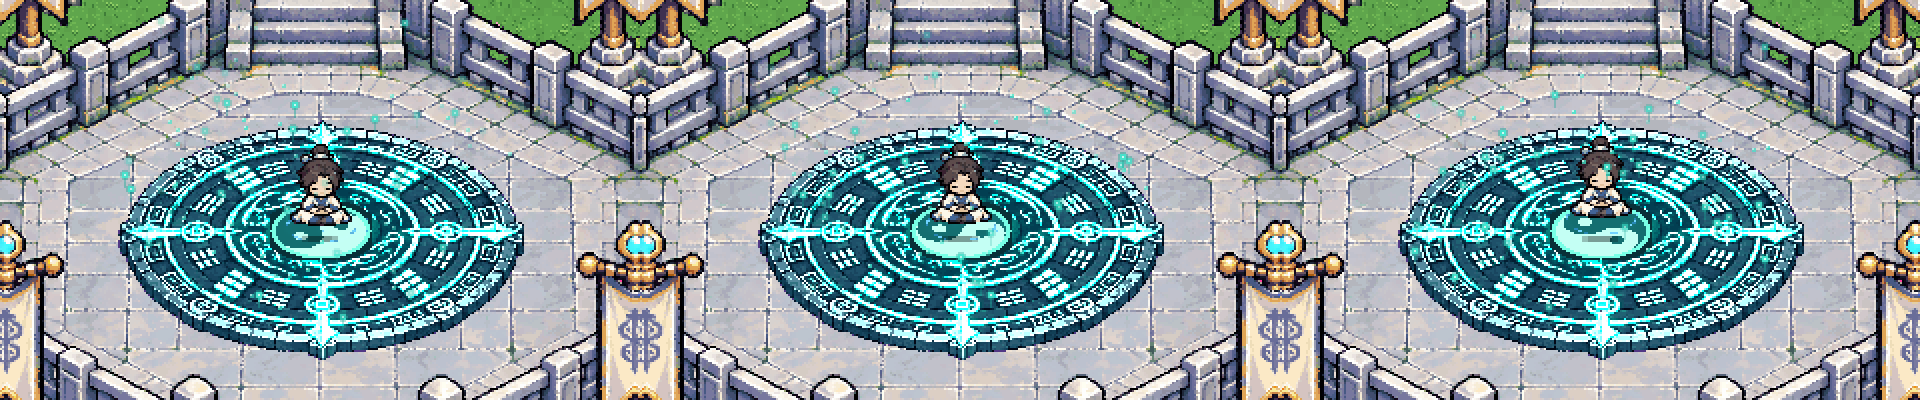
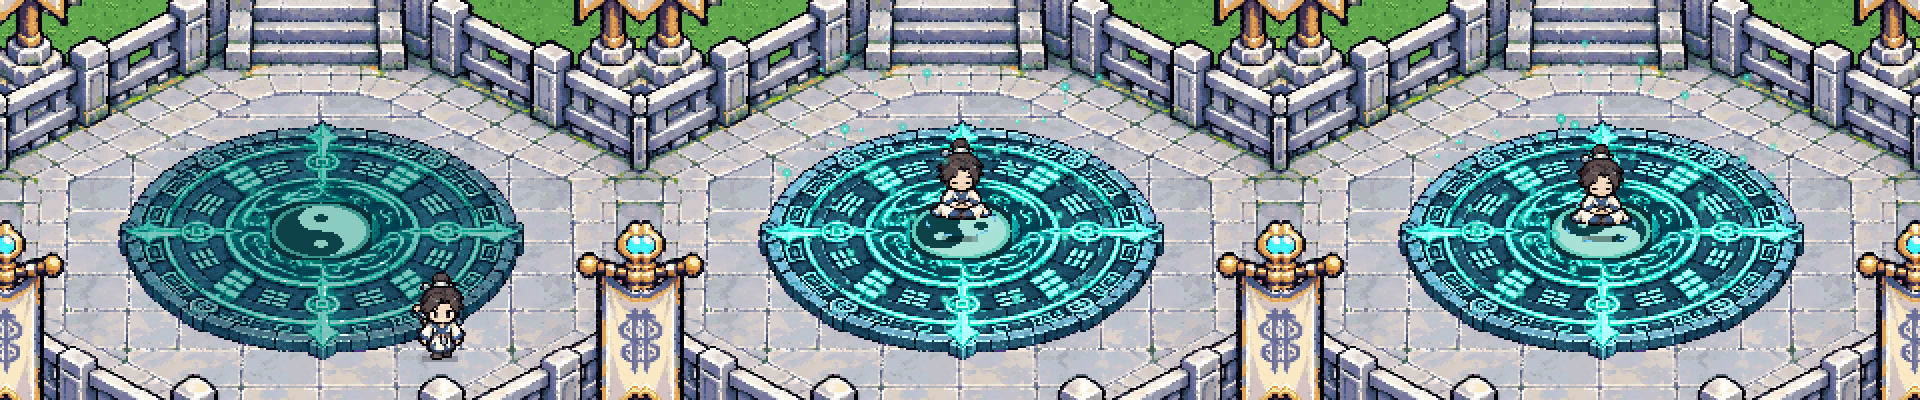
M8: am duong chi xoay khi thien (muot hon), mau tu linh tran diu lai

diff --git a/src/render/render.js b/src/render/render.js
@@ -430,15 +430,15 @@ function drawSectBuilding(ctx, b) {
 
 // M8: âm dương giữa tụ linh trận sảnh tông môn — vẽ từng điểm ảnh (giữ chất pixel), elip theo góc nhìn 3/4 (khớp hình trận tm_tran:
 // tâm cách đỉnh hình trận cy px, bán trục rx×ry), quay theo chiều kim đồng hồ ~1 vòng/14 s; 72 khung xoay dựng sẵn khi cần
-const TAIJI = { rx: 25, ry: 14, cy: 55, period: 14, steps: 72 };
+const TAIJI = { rx: 25, ry: 14, cy: 55, period: 14, steps: 240 };
 const _taiji = new Map();
-function taijiFrame(time, lit) {
-  const k = Math.floor((time / TAIJI.period % 1) * TAIJI.steps), key = k + (lit ? 'L' : '');
+function taijiFrame(turn, lit) {   // turn: 0..1 vòng
+  const k = Math.floor(turn * TAIJI.steps) % TAIJI.steps, key = k + (lit ? 'L' : '');
   let c = _taiji.get(key); if (c) return c;
   const { rx, ry } = TAIJI, W = rx * 2 + 1, H = ry * 2 + 1;
   c = document.createElement('canvas'); c.width = W; c.height = H; const g = c.getContext('2d'), id = g.createImageData(W, H), d = id.data;
   const a = k / TAIJI.steps * Math.PI * 2, ca = Math.cos(a), sa = Math.sin(a);
-  const LIGHT = lit ? [196, 255, 244] : [158, 236, 220], DARK = lit ? [10, 72, 80] : [12, 74, 80], RIM = lit ? [120, 255, 230] : [60, 170, 160], BACK = [8, 48, 56];
+  const LIGHT = lit ? [168, 226, 214] : [140, 204, 192], DARK = [12, 66, 72], RIM = lit ? [96, 206, 188] : [56, 150, 142], BACK = [8, 48, 56];
   for (let j = 0; j < H; j++) for (let i = 0; i < W; i++) {
     const u0 = (i - rx) / rx, v0 = (j - ry) / ry, r2 = u0 * u0 + v0 * v0;
     let col = null;
@@ -809,8 +809,11 @@ export function render(ctx, g) {
       const on = p.med && g.inForm;
       ctx.drawImage(t, x, y);
       if (on && TR.tranGlow) { ctx.globalCompositeOperation = 'lighter'; ctx.drawImage(TR.tranGlow, x, y); ctx.globalCompositeOperation = 'source-over'; }
-      const tj = taijiFrame(time, on);   // âm dương giữa trận xoay chậm theo chiều kim đồng hồ, liên tục
-      ctx.drawImage(tj, Math.round(map.cx - tj.width / 2), y + TAIJI.cy - (tj.height >> 1));
+      // âm dương: chỉ xoay khi đang tọa thiền trong trận (chậm, theo chiều kim đồng hồ); không thiền -> đứng yên.
+      // Góc giữ lại giữa các lần thiền; vào/ra thiền tăng/giảm tốc dần
+      vis.taijiW = (vis.taijiW || 0) + ((on ? 1 : 0) - (vis.taijiW || 0)) * Math.min(1, (g.dtWorld || 0) * 2);
+      vis.taijiA = ((vis.taijiA || 0) + vis.taijiW * (g.dtWorld || 0) / TAIJI.period) % 1;
+      const tj = taijiFrame(vis.taijiA, on); ctx.drawImage(tj, Math.round(map.cx - tj.width / 2), y + TAIJI.cy - (tj.height >> 1));   // không thiền: đứng yên ở góc đang có (không nhảy hình)
     } else if (TR && TR.tran) {   // tụ linh trận (ChatGPT vẽ): thiền trong trận thì sáng rực, bình thường nhịp sáng nhẹ
       const t = TR.tran, s = TR.tran_sang, on = p.med && g.inForm;
       ctx.drawImage(t, Math.round(map.cx - t.width / 2), Math.round(map.cy - t.height / 2));

diff --git a/src/main.js b/src/main.js
@@ -96,9 +96,13 @@ if (vis.bia) vis.ct = { ...(vis.ct || {}), ...cropFrames(vis.bia) };   // M7-14:
 if (vis.tmCt || vis.tmDv || vis.tmCd) vis.tm = Object.assign({}, ...[vis.tmCt, vis.tmDv, vis.tmCd, vis.tmTran].filter(Boolean).map(cropFrames));
 // tụ linh trận sáng: lấy từ CHÍNH hình trận nghỉ (chỉ các đường khắc xanh ngọc) -> sáng lên đúng chỗ, không lệch như ô "sáng" ChatGPT vẽ riêng
 if (vis.tm && vis.tm.tran) {
-  const t = vis.tm.tran, c = document.createElement('canvas'); c.width = t.width; c.height = t.height; const g = c.getContext('2d'); g.drawImage(t, 0, 0);
+  const t = vis.tm.tran, tg = t.getContext('2d'), td = tg.getImageData(0, 0, t.width, t.height);
+  // dịu màu (người phát triển: hơi chói): đường khắc xanh ngọc tối & bớt rực ~25%
+  for (let i = 0; i < td.data.length; i += 4) { const d = td.data, cyan = d[i + 1] > 140 && d[i + 2] > 120 && d[i] < d[i + 1] - 20; if (cyan) { d[i] *= 0.7; d[i + 1] *= 0.78; d[i + 2] *= 0.78; } }
+  tg.putImageData(td, 0, 0);
+  const c = document.createElement('canvas'); c.width = t.width; c.height = t.height; const g = c.getContext('2d'); g.drawImage(t, 0, 0);
   const id = g.getImageData(0, 0, c.width, c.height), d = id.data;
-  for (let i = 0; i < d.length; i += 4) { const cyan = d[i + 1] > 140 && d[i + 2] > 120 && d[i] < d[i + 1] - 20; d[i + 3] = cyan ? 200 : 0; }
+  for (let i = 0; i < d.length; i += 4) { const cyan = d[i + 1] > 105 && d[i + 2] > 95 && d[i] < d[i + 1] - 20; d[i + 3] = cyan ? 110 : 0; }
   g.putImageData(id, 0, 0); vis.tm.tranGlow = c;
 }
 // M8: bệ Tụ Linh Pháp Đài (sprite ×PLAZA.scale): ảnh nền vẽ dưới nhân vật + lớp "phía trước" (lan can, vách, cờ, đèn).

diff --git a/TASKS_TU_TIEN_LO.md b/TASKS_TU_TIEN_LO.md
@@ -387,6 +387,7 @@ Thiết kế + backlog đầy đủ (ChatGPT, 13/11): **`docs/chatgpt_tong_mon_M
   - [x] (14/11) Tụ linh trận mới theo concept ảnh 1 (ChatGPT vẽ, chat "Vẽ concept art tông môn": `docs/concept/tong_mon_tu_linh_tran_chatgpt.png`, 2 ô nghỉ/kích hoạt) → `sprites/tm_tran.*` (`sprite_clean --scale 3.4`, 250×161, xoá viền magenta); sảnh tông môn dùng thay trận cũ (động phủ cũ giữ trận cũ). Bán kính ngồi thiền `HUB.FORM_R` 34 px chưa đổi. Ảnh `docs/playtest/M8_tran_nghi.png`, `M8_tran_thien.png`
   - [x] (14/11) Tụ linh trận nhỏ lại (`--scale 3.9`, mặt trận 203×120), đứng yên (bỏ nhịp sáng/ô sáng vẽ riêng bị lệch); tọa thiền trong trận thì đường khắc xanh sáng lên (lớp sáng tách từ chính hình trận); vùng ngồi thiền ở sảnh = elip mặt trận `HUB.SECT_FORM` {rx 92, ry 50} (động phủ cũ vẫn FORM_R 34); 204/204; ảnh `docs/playtest/M8_tran_v2.png`
   - [x] (14/11) VFX tụ linh trận (ý tưởng người phát triển): âm dương giữa trận vẽ từng điểm ảnh, xoay chậm theo chiều kim đồng hồ (~14 s/vòng, `TAIJI` + `taijiFrame` trong render.js); nhấn T trong trận -> vào giữa trận, bay lơ lửng (nâng ~9 px, lên xuống ±2,5 px, bóng giữ ở đất, hào quang dịu đi); linh khí bay lên quanh trận khi thiền (`updateQiParts`/`drawQiParts`); 204/204; ảnh `docs/playtest/M8_tran_vfx.png`
+  - [x] (14/11) Chỉnh VFX trận: âm dương chỉ xoay khi đang thiền (tăng/giảm tốc dần, dừng giữ nguyên góc), 240 nấc xoay cho mượt; màu trận dịu đi ~25%, lớp sáng khi thiền nhẹ hơn; ảnh `docs/playtest/M8_tran_vfx.png`
 - [ ] M8-03 Hệ thống tương tác công trình dùng chung (M, P0)
 - [ ] M8-04 Cổng Bí Cảnh (S, P0)
 - [ ] M8-05 Tụ Linh Pháp Đài (M, P0) → GATE M8-A
